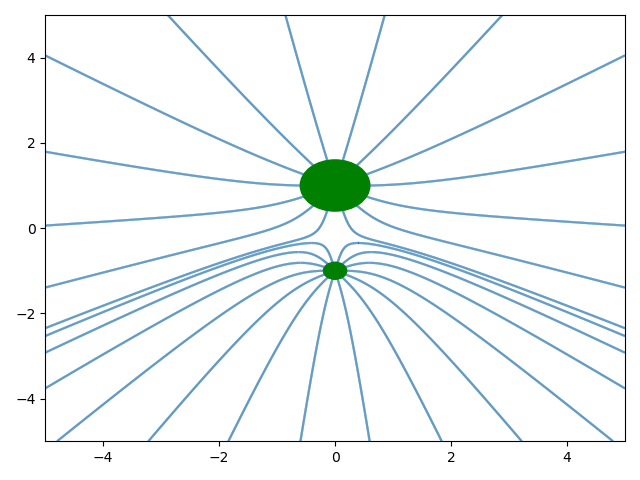
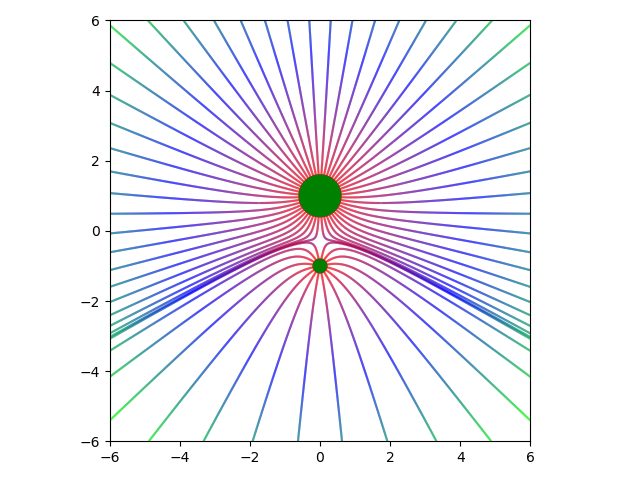
Make graphs square

diff --git a/field_lines.py b/field_lines.py
@@ -80,7 +80,7 @@ def get_field_lines(charges):
     lines = []
     magnitudes = []
     for index, charge in enumerate(charges):
-        print(f"Charge ({index} of {len(charges)})...", end="")
+        print(f"Calculating field for charge ({index} of {len(charges)})...", end="")
 
         if charge.repels:
             for starting_point in get_points_around_charge(charge):

diff --git a/helper.py b/helper.py
@@ -61,6 +61,7 @@ class Graph:
         axis = plt.gca()
         axis.set_xlim((-SIZE_OF_GRAPH, SIZE_OF_GRAPH))
         axis.set_ylim((-SIZE_OF_GRAPH, SIZE_OF_GRAPH))
+        axis.set_aspect('equal')
 
     @staticmethod
     def draw_lines(lines_to_draw, colors=None):
